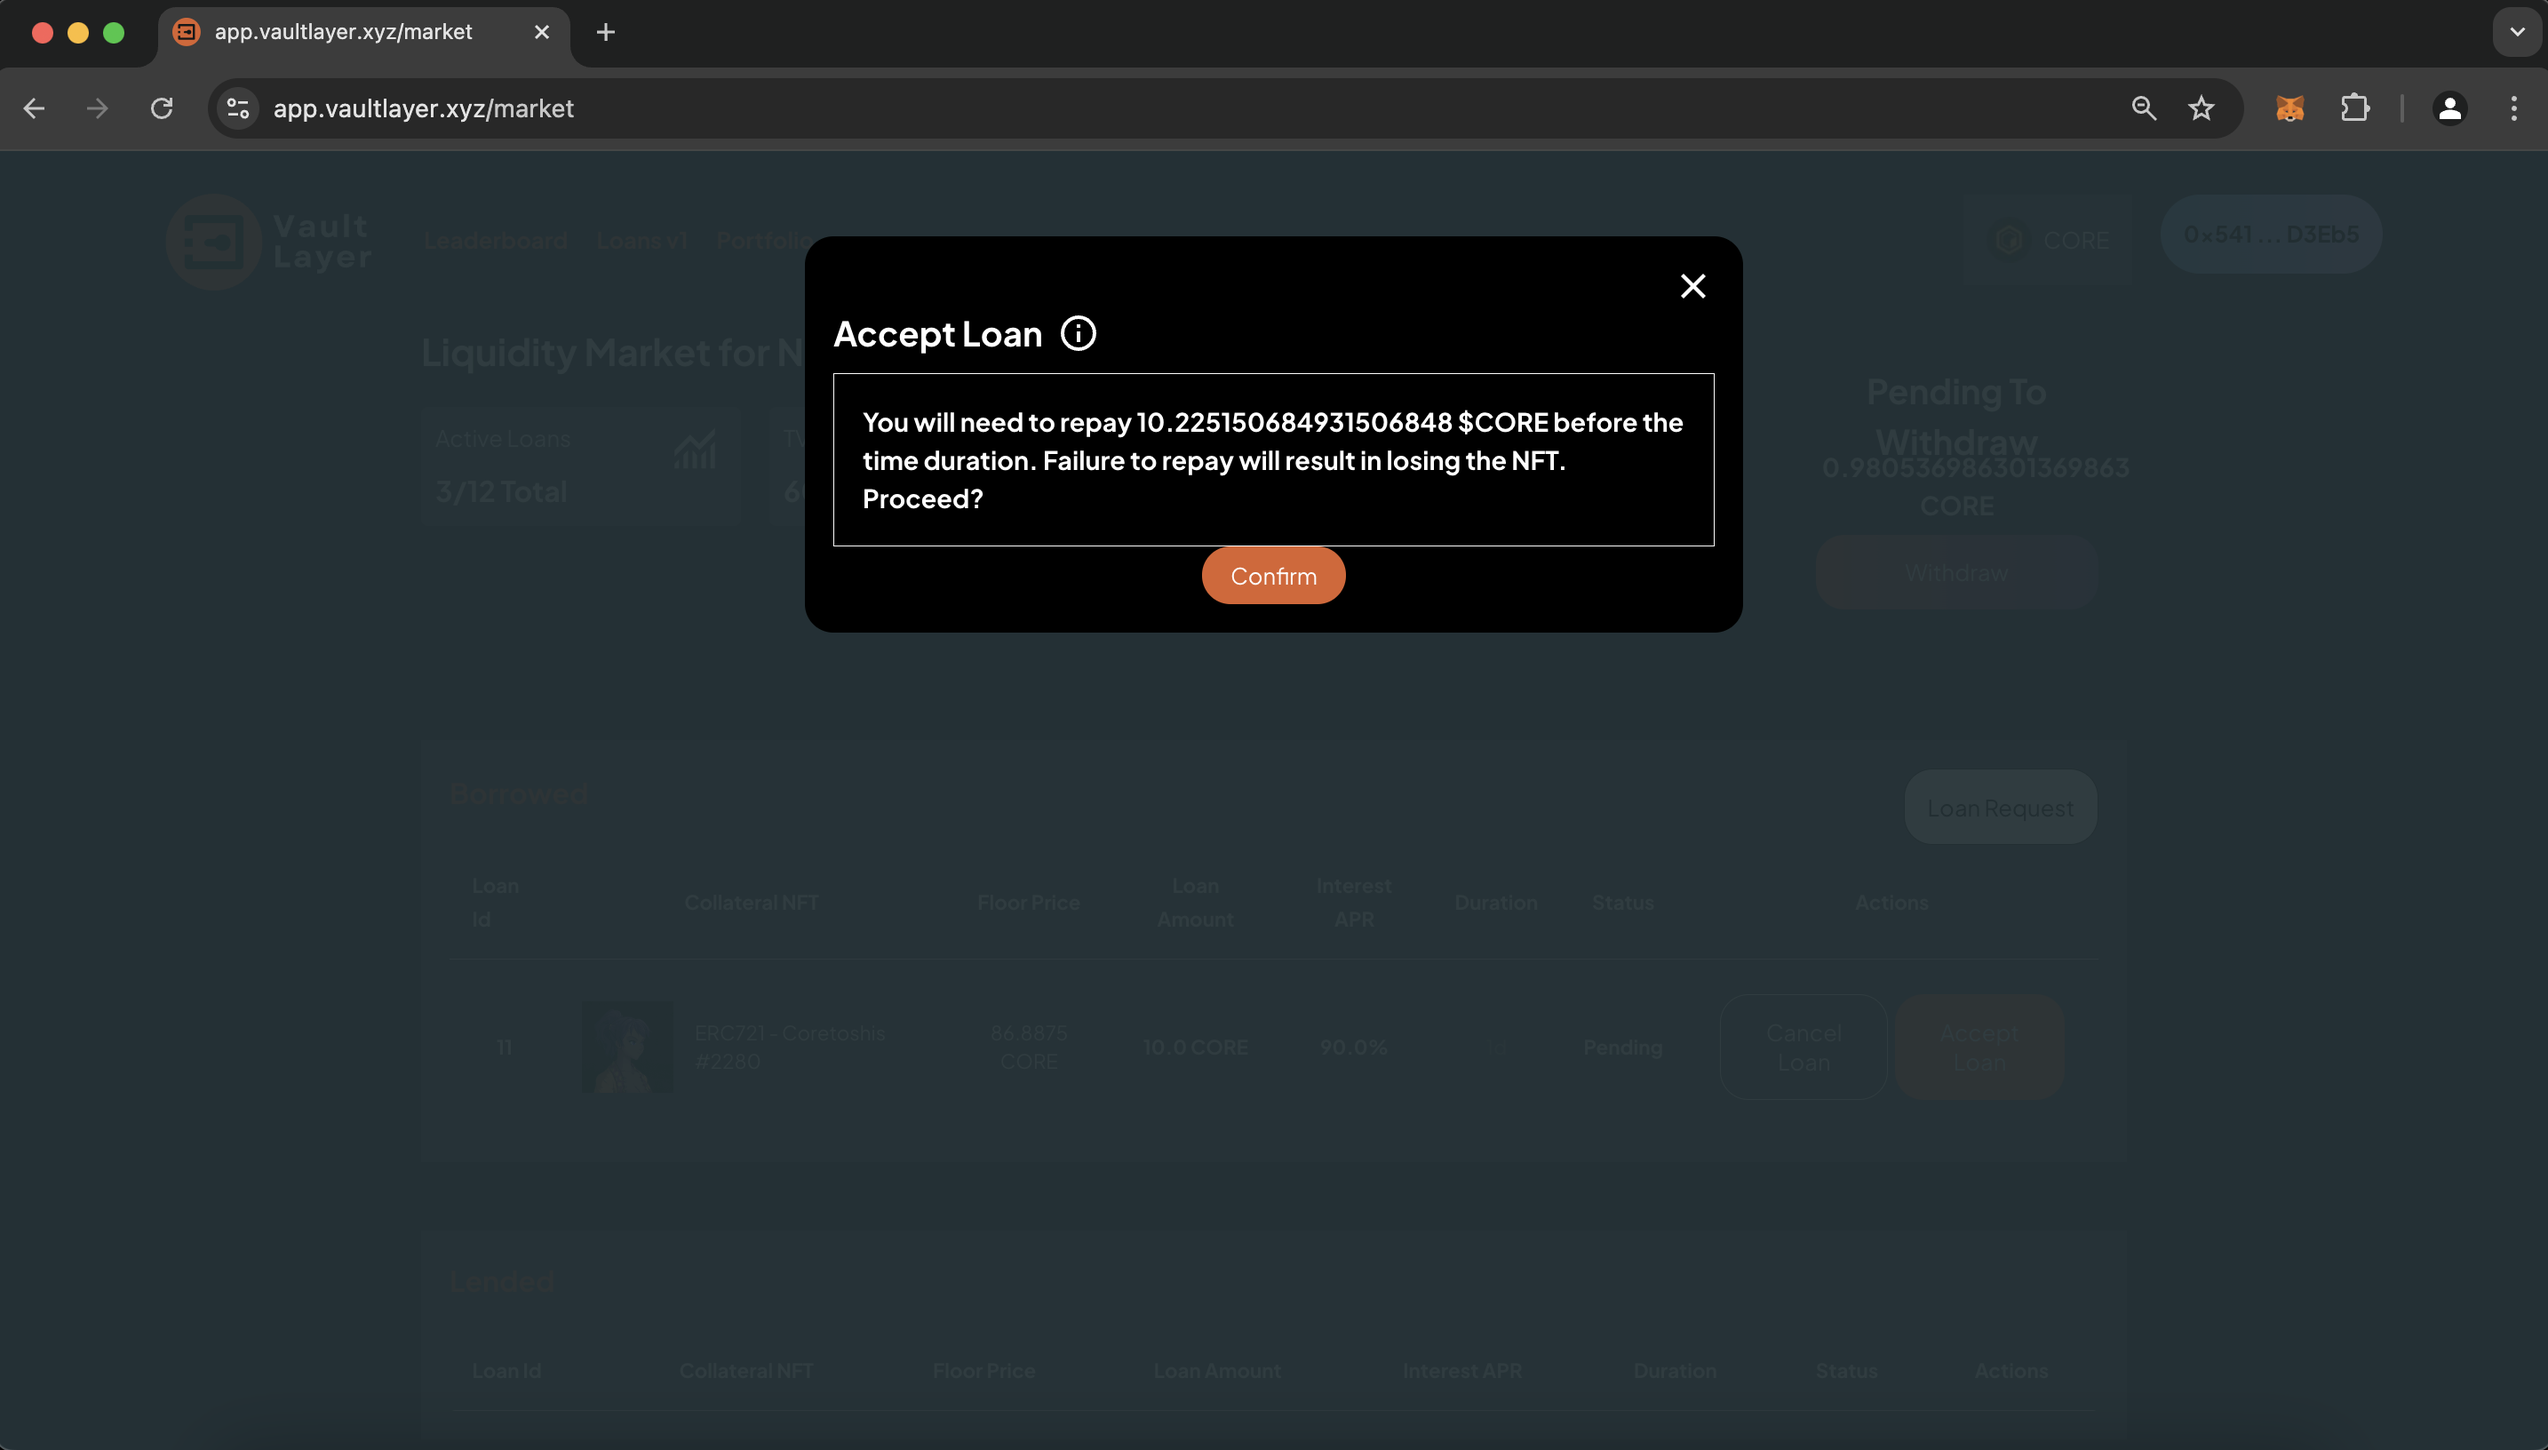
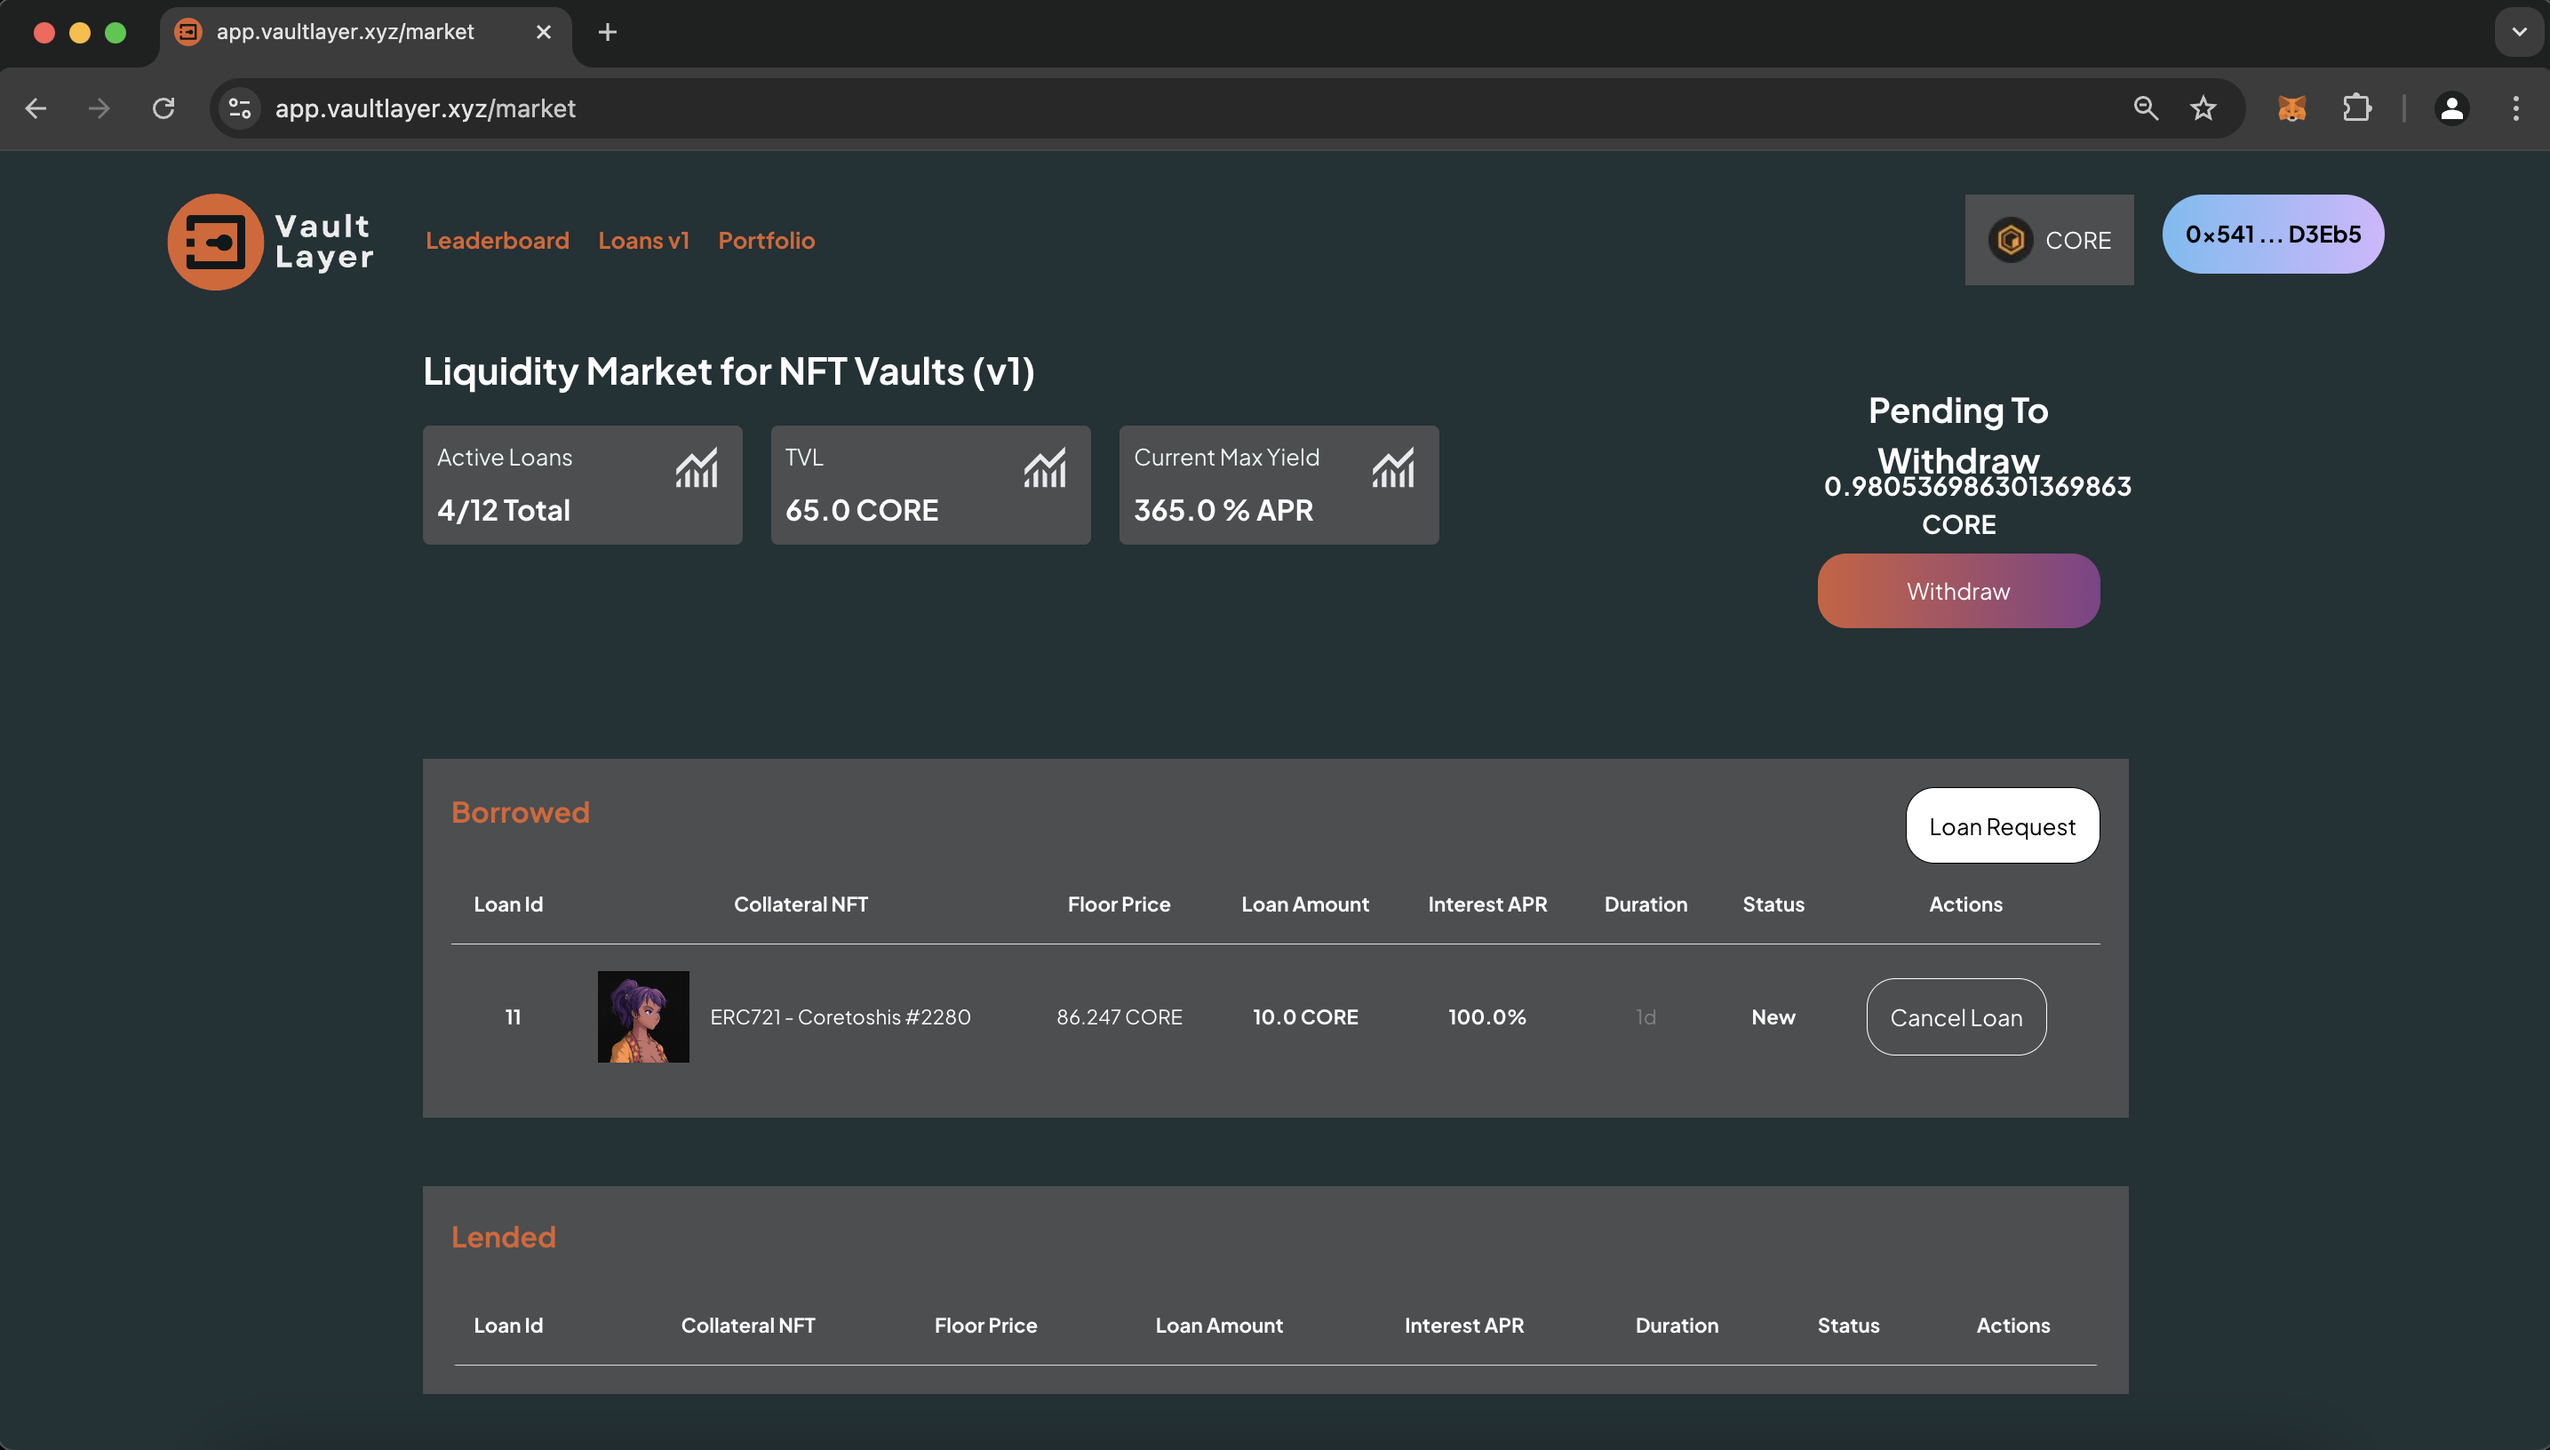
GITBOOK-47: No subject

diff --git a/components/p2p-liquidity.md b/components/p2p-liquidity.md
@@ -4,17 +4,19 @@ description: Stake Bitcoin in L1. Get liquidity in CORE and USDC.
 
 # 🤝 P2P Liquidity
 
-VaultLayer’s **P2P NFT Lending Market** allows users to unlock liquidity using staked Bitcoin or eligible NFTs as collateral — without selling the underlying asset. The system operates trustlessly across multiple EVM chains, creating a decentralized over-the-counter (OTC) marketplace for loans.
+<figure><img src="../.gitbook/assets/image.png" alt=""><figcaption><p>Get liquidity in CORE &#x26; USDC</p></figcaption></figure>
 
-* The P2P Liquidity market allows Smart Vault NFT holders with L1-staked Bitcoin, CORE, ETH, AVAX, BNB or USDC, to get access to liquidity without having to sell.
-* Users in need of liquidity make a loan request instead, using their Smart Vault NFT as collateral, set their terms (amount, APR and maturity time), and lenders bid using a reverse auction approach.
-* The lender with the best bid, provides liquidity and earns yield or the NFT collateral in case of default.
+VaultLayer’s **P2P NFT Lending Market** allows users to unlock liquidity using staked Bitcoin (and other assets) as collateral. The system operates trustlessly across multiple EVM chains, creating a decentralized over-the-counter (OTC) marketplace for loans.
+
+* The P2P Liquidity market allows Smart Vault NFT holders of selected collections, with L1-staked Bitcoin, CORE and other supported chains, to get access to liquidity without having to sell.
+* Users in need of liquidity make a loan request instead, using the assets in their Smart Vault NFT as collateral, set their terms (amount, APR and maturity time), and lenders bid using a reverse auction approach.
+* The lender with the best bid, provides liquidity and earns yield or the Smart Vault NFT collateral in case of default.
 
 ***
 
 ## 🌉 Multi-Chain Liquidity
 
-VaultLayer has deployed the P2P Lending Market across multiple chains to enable cross-chain liquidity against staked BTC:
+VaultLayer has deployed the P2P Lending Market across multiple chains to enable cross-chain liquidity against staked BTC and other assets:
 
 **CORE (vltCORE)**
 
@@ -26,7 +28,7 @@ VaultLayer has deployed the P2P Lending Market across multiple chains to enable 
 * Get exposure to BTC staked on L1 and use it as collateral.
 * Get access to discounted BTC via P2P.
 
-<table><thead><tr><th width="160.89605712890625">Chain</th><th width="160.84417724609375">Loan Token</th><th>Use Case</th></tr></thead><tbody><tr><td>CoreDAO</td><td>vltCORE</td><td>Stake BTC, borrow CORE using Vault NFT</td></tr><tr><td>Arbitrum</td><td>USDC</td><td>Access discounted BTC via lending markets</td></tr><tr><td>BSC</td><td>USDC</td><td>Institutional lending exposure to BTC staking</td></tr><tr><td>Avalanche</td><td>USDC</td><td>Bid on loans backed by staked BTC</td></tr><tr><td>Optimism</td><td>USDC</td><td>Get yield on BTC-backed NFT loans</td></tr><tr><td>Base</td><td>USDC</td><td>OTC loans for LSV holders</td></tr></tbody></table>
+<table><thead><tr><th width="160.89605712890625">Chain</th><th width="160.84417724609375">Loan Token</th><th>Use Case</th></tr></thead><tbody><tr><td>CoreDAO</td><td>vltCORE</td><td>Stake BTC, borrow CORE using Smart Vault NFT</td></tr><tr><td>Arbitrum</td><td>USDC</td><td>Access discounted BTC via lending markets</td></tr><tr><td>BSC</td><td>USDC</td><td>OTC loans for LSV holders</td></tr><tr><td>Avalanche</td><td>USDC</td><td>Bid on loans backed by staked BTC</td></tr><tr><td>Optimism</td><td>USDC</td><td>Get yield on BTC-backed Smart Vault NFT loans</td></tr><tr><td>Base</td><td>USDC</td><td>Institutional lending exposure to BTC staking</td></tr></tbody></table>
 
 ***
 
@@ -38,20 +40,18 @@ Borrowers lock eligible NFTs — like **Liquid Smart Vaults** or **CoreDAO NFTs 
 * **APR**
 * **Maturity time**
 
-Lenders bid using a **reverse auction** approach. The best bid (lowest interest rate) wins, providing liquidity in either $CORE or $USDC depending on the chain. If the borrower defaults, the lender claims the NFT.
+Lenders bid using a **reverse auction** approach. The best bid (lowest interest rate) wins, providing liquidity in either $CORE or $USDC depending on the chain. If the borrower defaults, the lender claims the Smart Vault NFT.
 
-> 🔄 Loans are **OTC**. Floor prices are **informational only** — **DYOR** is essential for both borrowers and lenders.
-
-***
-
-:warning: Loan requests are P2P (Peer-To-Peer) and OTC (Over The Counter). Do Your Own Research (DYOR) both before requesting a loan (borrowers) or providing liquidity (lenders). NFT Collections' floor price are shown for information purposes. As a best practice, loans should be over-collateralized, meaning the value of the underlying asset (the NFT) should be bigger than the loan amount being requested.
+> :warning: Loans are **P2P** (Peer-To-Peer) and **OTC** (Over The Counter). Floor prices are **informational only** — **DYOR** is essential for both borrowers and lenders.
+>
+> :warning: As a best practice, loans should be over-collateralized, meaning the value of the underlying assets should be bigger than the loan amount being requested.
 
 For the detailed documentation on how to borrow or lend, check:
 
 * [Use Bitcoin as collateral](../points/borrow-usdcore-with-nft.md)
 * [Earn providing liquidity](../points/lend-usdcore.md)
 
-:information\_source: Fees: Flat platform fee of 2% flat for all actions taken in the market: Loan request, bid, bid acceptance, repayment, withdraw, loan cancellation and bid cancellation.
+:information\_source: Fees: Flat platform fee of 2% flat for lend and borrow.
 
 ***
 

diff --git a/points/borrow-usdcore-with-nft.md b/points/borrow-usdcore-with-nft.md
@@ -50,17 +50,17 @@ You can close the pop-up window and click on **Loans v1**:
 
 Your Loan Request will show up at the bottom as "New":
 
-<figure><img src="../.gitbook/assets/image.png" alt=""><figcaption><p>Loan Requests List</p></figcaption></figure>
+<figure><img src="../.gitbook/assets/image (2).png" alt=""><figcaption><p>Loan Requests List</p></figcaption></figure>
 
 :warning: If you want to Cancel Loan, you can also do it from this section.
 
 Once a lender performs a bid on your loan request, you will be able to accept it:
 
-<figure><img src="../.gitbook/assets/image (1).png" alt=""><figcaption><p>Accept Loan Bid</p></figcaption></figure>
+<figure><img src="../.gitbook/assets/image (1) (1).png" alt=""><figcaption><p>Accept Loan Bid</p></figcaption></figure>
 
 Check the loan terms and click **OK**:
 
-<figure><img src="../.gitbook/assets/image (2).png" alt=""><figcaption><p>Read and confirm loan acceptance</p></figcaption></figure>
+<figure><img src="../.gitbook/assets/image (2) (1).png" alt=""><figcaption><p>Read and confirm loan acceptance</p></figcaption></figure>
 
 If all went out smoothly, you will get a confirmation for the Accept Loan request:
 

diff --git a/components/bitcoin-staking.md b/components/bitcoin-staking.md
@@ -10,6 +10,8 @@ VaultLayer enables self-custodial Bitcoin staking on CoreDAO and unlocks liquidi
 
 ### 🔐 How Bitcoin Staking Works on CoreDAO
 
+<figure><img src="https://lh7-rt.googleusercontent.com/slidesz/AGV_vUfpHdV2oACWbEW6DvHHh1eBX-gEhTxt6Ttn-dhZz26vSRyiH6JFLNX7jKwHZzS9ODAOu8Qc56Jry6GWrKzHDFzYZk1_CbGgWVI3yINJR2E2jMgoSLaxIncD6TXg_GjEG1RhnWdMpg=s2048?key=728Fir4Ro5h7MzzA__d2yg" alt=""><figcaption><p>Bitcoin L1 Staking via CoreDAO</p></figcaption></figure>
+
 #### Non-Custodial Time-Locked Staking
 
 CoreDAO allows BTC holders to stake their assets **directly on Bitcoin L1**, using a smart script based on **`OP_CLTV`** (CheckLockTimeVerify).

diff --git a/components/vaulterbtc-ai-agent.md b/components/vaulterbtc-ai-agent.md
@@ -9,6 +9,8 @@ description: The 1st Autonomous AI Agent for Bitcoin DeFi
 **VaultLayer is building Vaulter BTC:**\
 The 🏁 **first AI Agent that grows your Bitcoin while you sleep** — using delegated Smart Vaults with verifiable on-chain policies.
 
+<figure><img src="../.gitbook/assets/image (1).png" alt=""><figcaption><p>Delegate your Smart Vault to Vaulter</p></figcaption></figure>
+
 Vaulter is built for secure, programmable automation of your staking, swapping, and bridging strategies.
 
 * ✅ **Secure**: Operates only with your Smart Vault’s on-chain permissions.

diff --git a/SUMMARY.md b/SUMMARY.md
@@ -7,8 +7,8 @@
 * [🟠 Smart Vaults](components/smart-vaults.md)
 * [🚀 Bitcoin Staking](components/bitcoin-staking.md)
 * [🔶 vltCORE](smart-vaults/vltcore.md)
-* [🤖 VaulterBTC AI Agent](components/vaulterbtc-ai-agent.md)
 * [🤝 P2P Liquidity](components/p2p-liquidity.md)
+* [🤖 VaulterBTC AI Agent](components/vaulterbtc-ai-agent.md)
 
 ## LASER  Points <a href="#points" id="points"></a>
 
